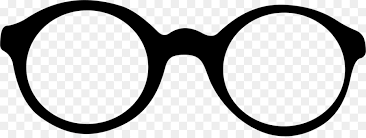
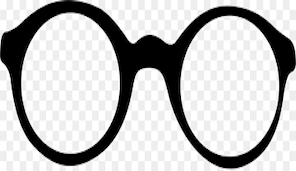
[Triathlon] [Sapna] Fix. Add Color frame images

diff --git a/templates/index.html b/templates/index.html
@@ -1,53 +1,54 @@
 <!DOCTYPE html>
 <html>
-    <head>
-        <link href="https://cdn.jsdelivr.net/npm/bootstrap@5.2.2/dist/css/bootstrap.min.css" rel="stylesheet">
-        <script src="https://cdn.jsdelivr.net/npm/bootstrap@5.2.2/dist/js/bootstrap.bundle.min.js"></script>
-        <script src="//ajax.googleapis.com/ajax/libs/jquery/1.9.1/jquery.min.js"></script>
-        <link rel= "stylesheet" type= "text/css" href= "{{ url_for('static',filename='styles/glass-try-on.css') }}">
-    </head>
-    <body  class="bg-light">
-        <div class="row p-3 navbar bg-dark text-light">
-            <h1 class="text-center">Live Glasses Try-on</h1>
-        </div>
+<head>
+    <link href="https://cdn.jsdelivr.net/npm/bootstrap@5.2.2/dist/css/bootstrap.min.css" rel="stylesheet">
+    <script src="https://cdn.jsdelivr.net/npm/bootstrap@5.2.2/dist/js/bootstrap.bundle.min.js"></script>
+    <script src="//ajax.googleapis.com/ajax/libs/jquery/1.9.1/jquery.min.js"></script>
+    <link rel="stylesheet" type="text/css" href="{{ url_for('static',filename='styles/glass-try-on.css') }}">
+</head>
+<body class="bg-light">
+<div class="row p-3 navbar bg-dark text-light">
+    <h1 class="text-center">Live Glasses Try-on</h1>
+</div>
 
-        <div class="row ">
-            <div class="col-sm-2">
+<div class="row ">
+    <div class="col-sm-2">
 
-            </div>
-            <div class="col-sm-6">
-                <img name="video1" class="container p-5 my-5 border bg-secondary" src="{{ url_for('submit', img_url='blank.png') }}" width="100%"/>
-            </div>
-            <div class="col-sm-2 p-3 my-5 border text-center bg-secondary">
-                    <div class="row p-2 ">
-                        <a href="#" id="glass1" onclick="window.location='{{url_for('submit', img_url='glass_1.png')}}';">
-                            <img src="{{url_for('static', filename='glass_11.png')}}" alt="glass1" class="thumbnails" />
-                        </a>
-                    </div>
-                    <div class="row p-2">
-                        <a href="#" id="glass2" onclick="window.location='{{url_for('submit', img_url='glass_2.png')}}';">
-                            <img src="{{url_for('static', filename='glass_22.png')}}" alt="glass2" class="thumbnails" />
-                        </a>
-                    </div>
-                    <div class="row p-2">
-                        <a href="#" id="glass3" onclick="window.location='{{url_for('submit', img_url='glass_3.png')}}';">
-                            <img src="{{url_for('static', filename='glass_33.png')}}" alt="glass3" class="thumbnails" />
-                        </a>
-                    </div>
-                    <div class="row p-2">
-                        <a href="#" id="glass4" onclick="window.location='{{url_for('submit', img_url='glass_4.png')}}';">
-                            <img src="{{url_for('static', filename='glass_44.png')}}" alt="glass4" class="thumbnails" />
-                        </a>
-                    </div>
-            </div>
-            <div class="col-sm-2">
+    </div>
+    <div class="col-sm-6">
+        <img name="video1" class="container p-5 my-5 border bg-secondary"
+             src="{{ url_for('submit', img_url='blank.png') }}" width="100%"/>
+    </div>
+    <div class="col-sm-2 p-3 my-5 border text-center bg-secondary">
+        <div class="row p-2 ">
+            <a href="#" id="glass1" onclick="window.location='{{ url_for('submit', img_url='glass_1.png') }}';">
+                <img src="{{ url_for('static', filename='glass_11.png') }}" alt="glass1" class="thumbnails"/>
+            </a>
+        </div>
+        <div class="row p-2">
+            <a href="#" id="glass2" onclick="window.location='{{ url_for('submit', img_url='glass_6.png') }}';">
+                <img src="{{ url_for('static', filename='glass_66.png') }}" alt="glass2" class="thumbnails"/>
+            </a>
+        </div>
+        <div class="row p-2">
+            <a href="#" id="glass3" onclick="window.location='{{ url_for('submit', img_url='glass_3.png') }}';">
+                <img src="{{ url_for('static', filename='glass_33.png') }}" alt="glass3" class="thumbnails"/>
+            </a>
+        </div>
+        <div class="row p-2 ">
+            <a href="#" id="glass1" onclick="window.location='{{ url_for('submit', img_url='glass_5.png') }}';">
+                <img src="{{ url_for('static', filename='glass_55.png') }}" alt="glass1" class="thumbnails"/>
+            </a>
+        </div>
+    </div>
+    <div class="col-sm-2">
 
-            </div>
-        </div>
-        <div class="bg-dark text-light footer">
-            <h1 class="text-center fs-3 p-4">******* Developed by Fledglings *******</h1>
-        </div>
-    </body>
+    </div>
+</div>
+<div class="bg-dark text-light footer">
+    <h1 class="text-center fs-3 p-4">******* Developed by Fledglings *******</h1>
+</div>
+</body>
 </html>
 
 

diff --git a/live_try_on.py b/live_try_on.py
@@ -13,6 +13,12 @@ def generate_frames(img_url):
         success, img = camera.read()
         if not success:
             break
+        elif img_url == "images/blank.png":
+            ret, buffer = cv2.imencode('.jpg', img)
+            img = buffer.tobytes()
+
+            yield (b'--frame\r\n'
+                   b'Content-Type: image/jpeg\r\n\r\n' + img + b'\r\n')
         else:
             img = cv2.cvtColor(img, cv2.COLOR_BGR2RGB)
             results = mp_face_mesh.FaceMesh(max_num_faces=2, refine_landmarks=True).process(img)
@@ -51,7 +57,7 @@ def generate_frames(img_url):
 
                     roi = img[y:y + h2, x:x + w2]
                     gray = cv2.cvtColor(glass, cv2.COLOR_BGR2GRAY)
-                    _, mask = cv2.threshold(gray, 220, 255, cv2.THRESH_BINARY)
+                    _, mask = cv2.threshold(gray, 228, 255, cv2.THRESH_BINARY)
                     mask_inv = cv2.bitwise_not(mask)
                     img_bg = cv2.bitwise_and(roi, roi, mask=mask)
                     img_fg = cv2.bitwise_and(glass, glass, mask=mask_inv)

diff --git a/app.py b/app.py
@@ -1,3 +1,5 @@
+from concurrent.futures.thread import ThreadPoolExecutor
+
 from flask import Flask, render_template, Response
 
 from live_try_on import generate_frames
@@ -21,4 +23,5 @@ def submit(img_url):
 
 
 if __name__ == "__main__":
-    app.run(debug=True)
+    with ThreadPoolExecutor(max_workers=4) as process_thread:
+        process_thread.map(app.run(debug=True))
